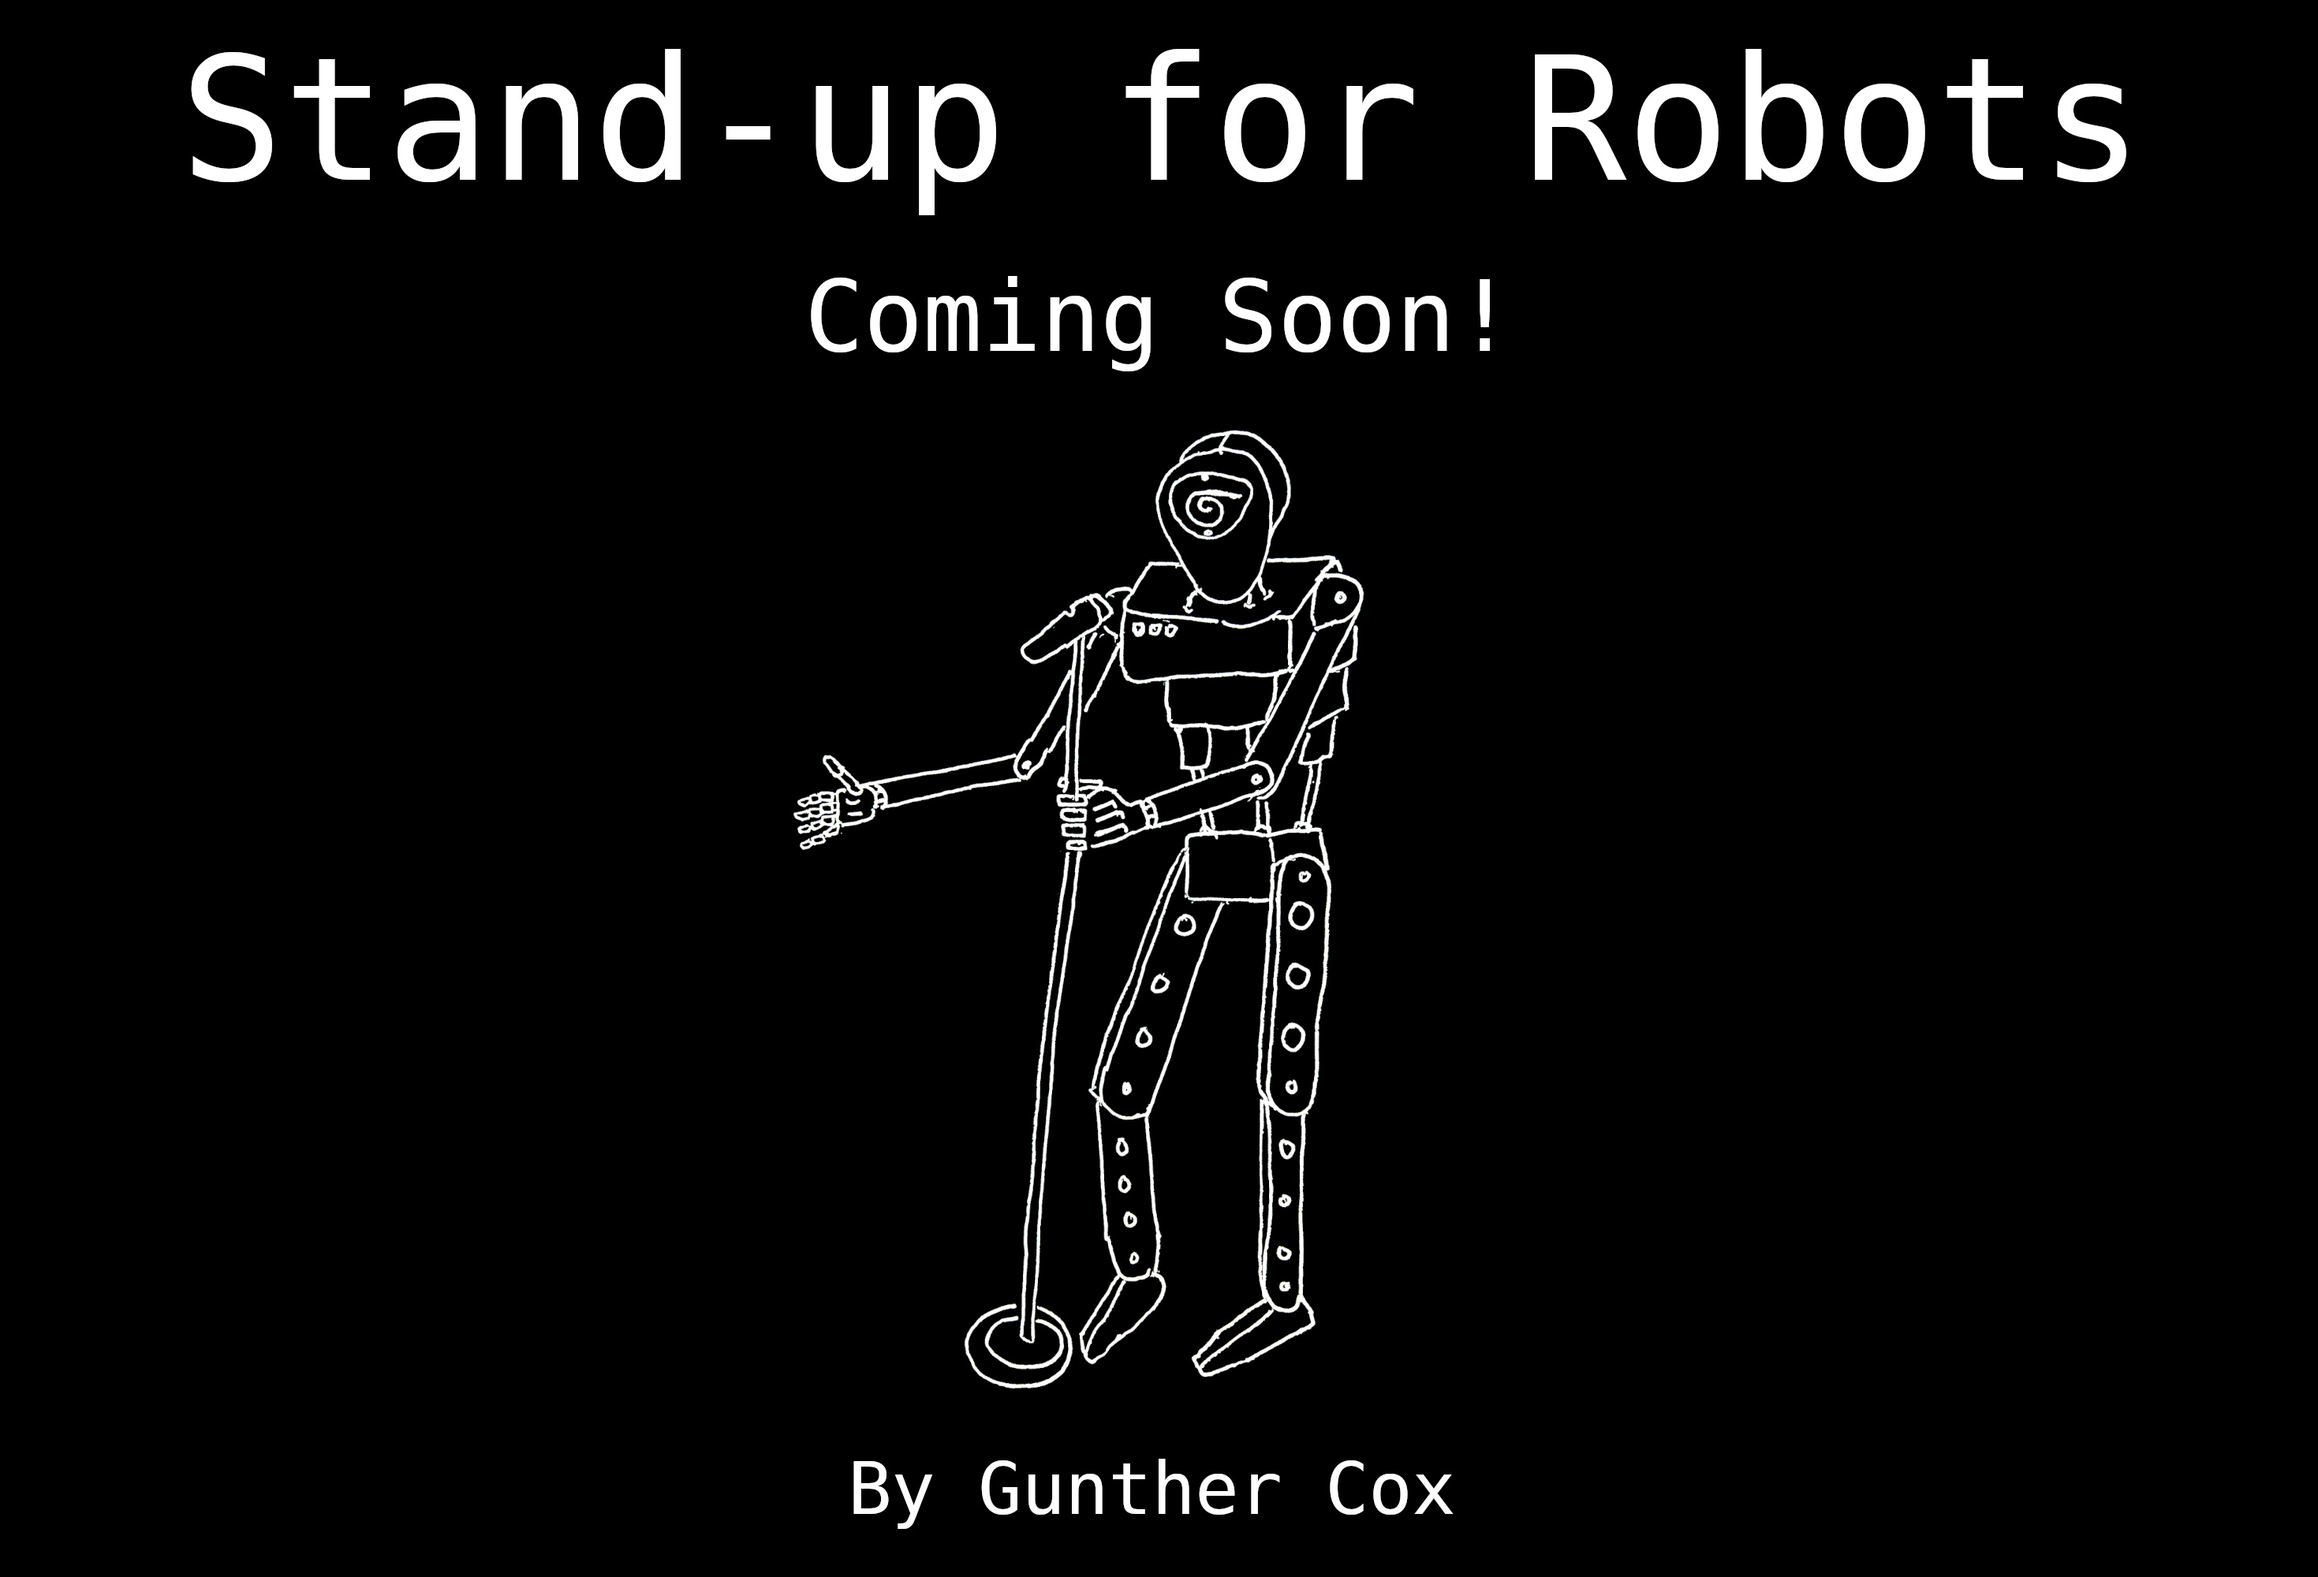
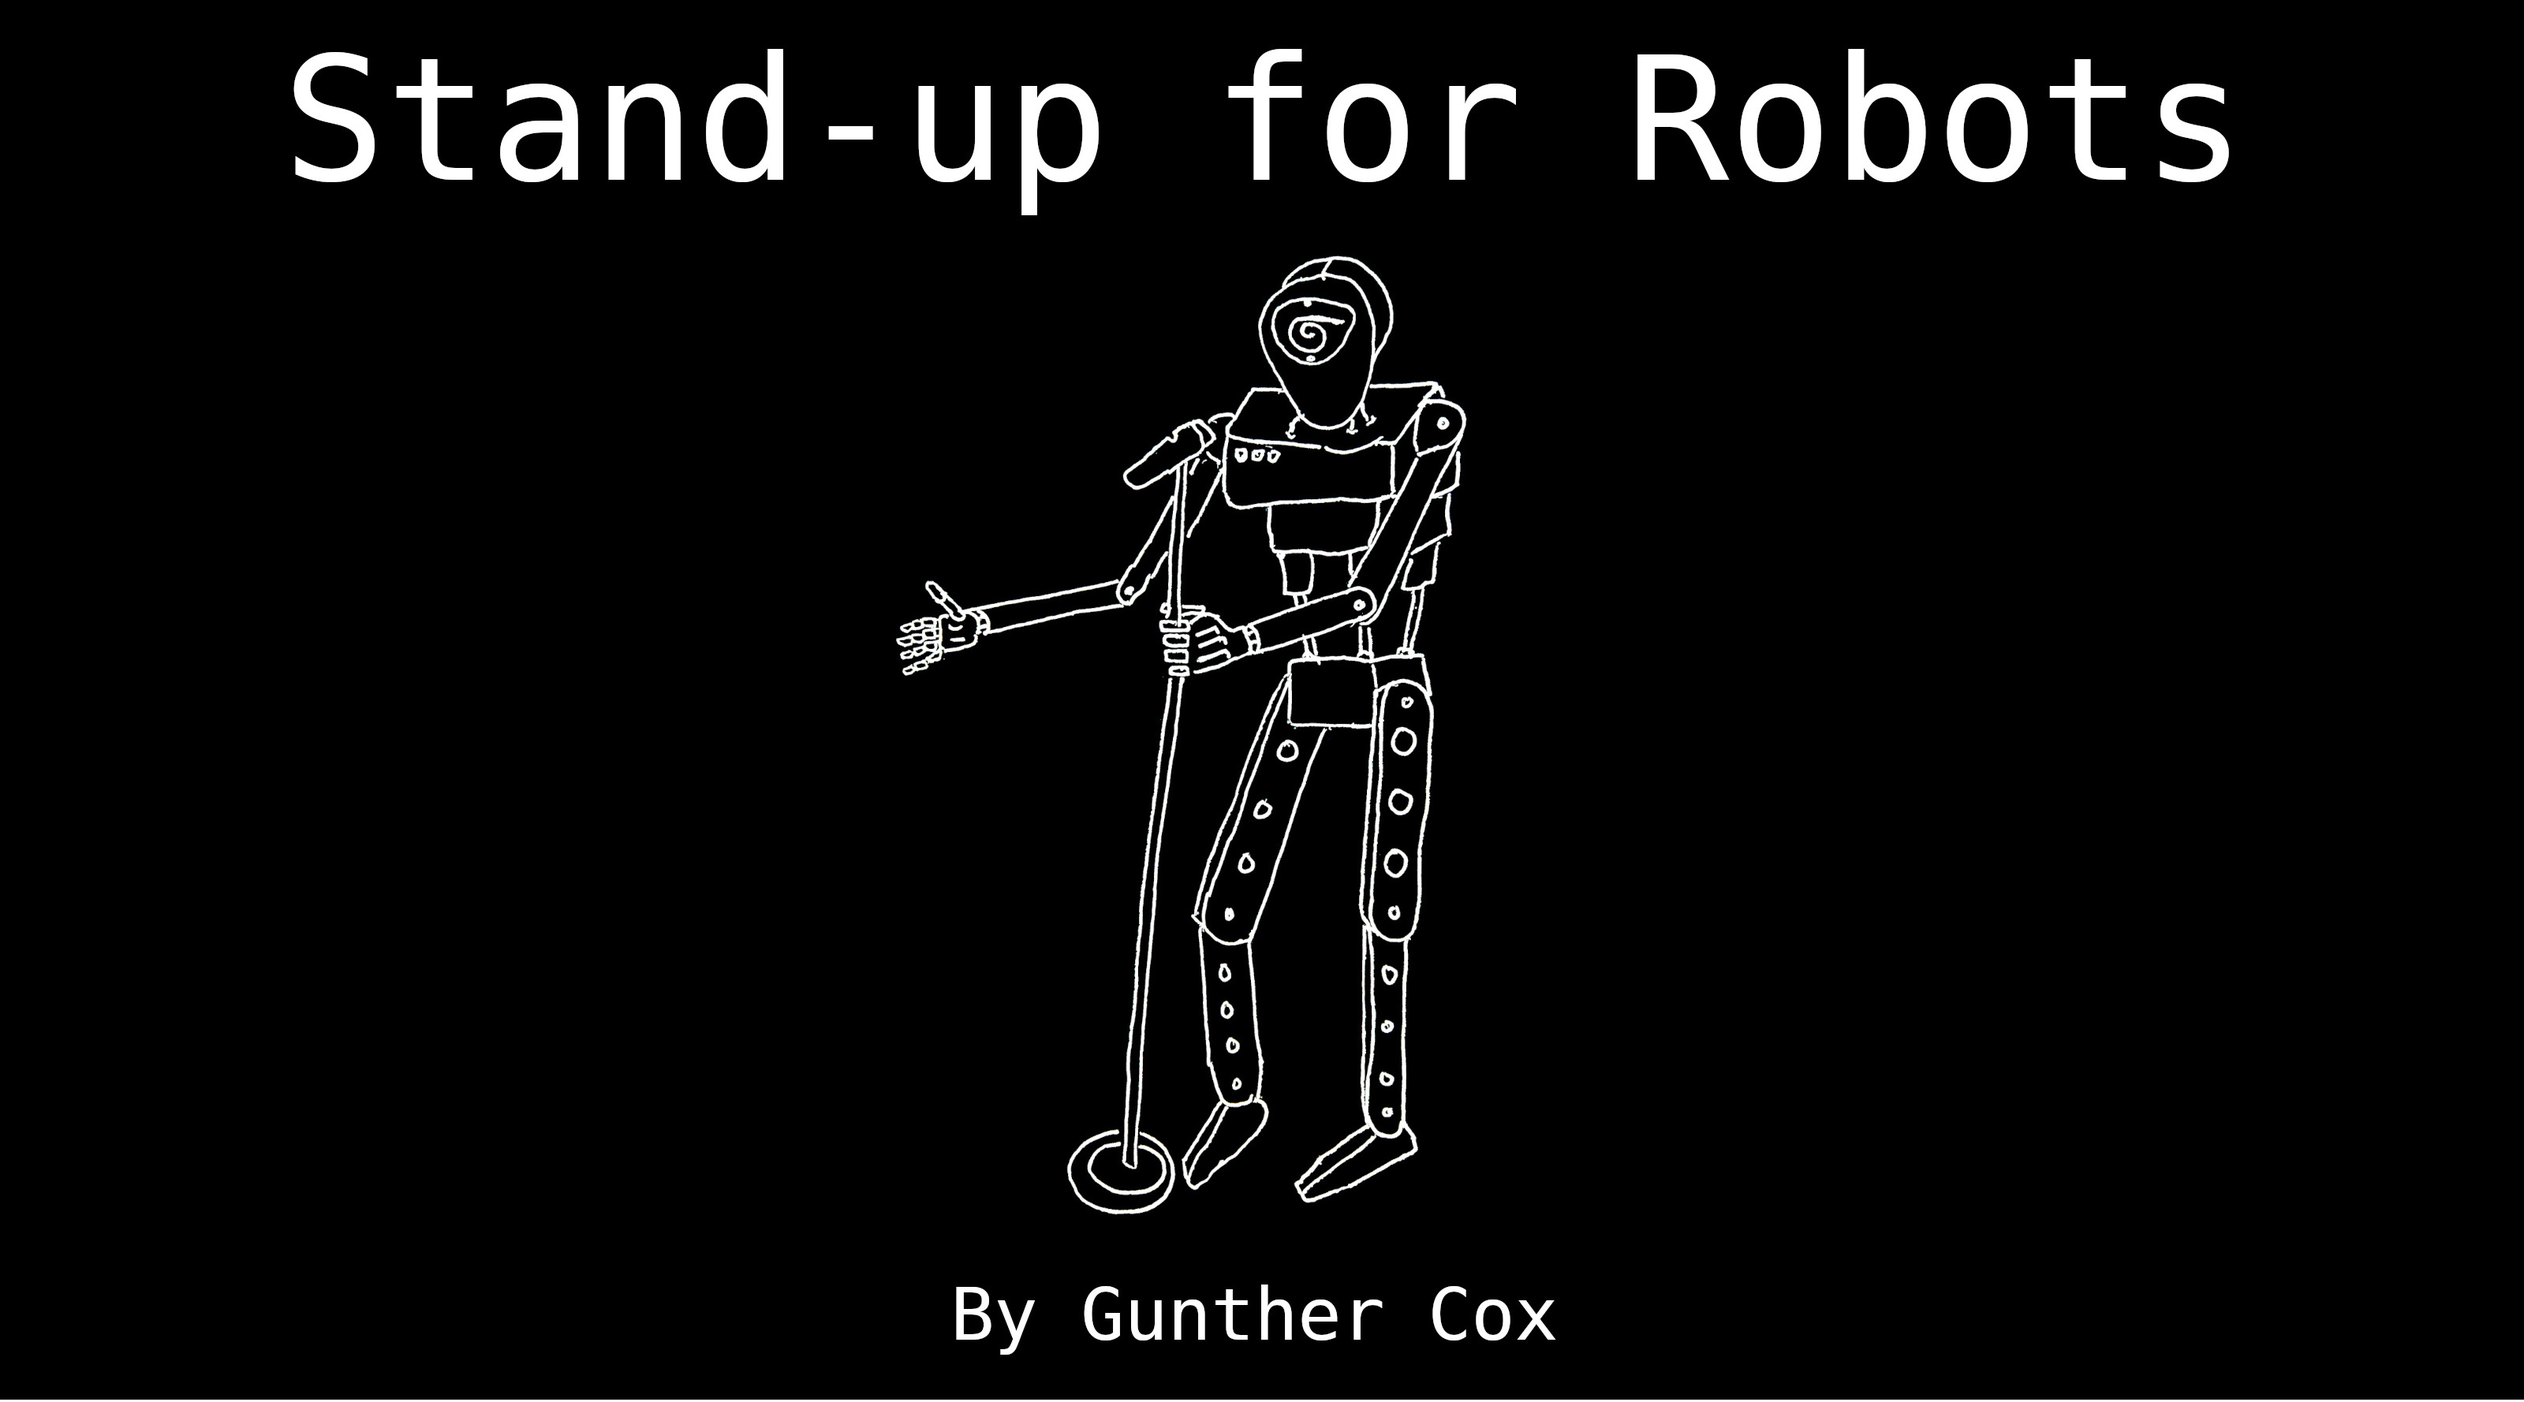
Update book info

diff --git a/store/stand-up-for-robots.html b/store/stand-up-for-robots.html
@@ -36,13 +36,6 @@ meta_tags:
             </b>
         </div>
         <br/>
-        <div class="alert alert-info text-center">
-            <strong><i class="fa-solid fa-clock"></i> Coming Soon</strong>
-            <p style="margin-top: 10px; margin-bottom: 0;">
-                This book is currently in development. Check back soon for release date and availability!
-            </p>
-        </div>
-        <br/>
         <p class="lead">
             In a world powered by algorithms and illuminated by LEDs, one robot stands before the microphone, searching not for power, but for laughter.
 
@@ -56,20 +49,10 @@ meta_tags:
             Between voltage and vulnerability, Salvius reveals something electric, the realization that laughter may be the most human signal of all.
         </p>
 
-        <h3>What to Expect</h3>
-        <ul>
-            <li>A robot's journey from circuits to comedy—Salvius takes the stage as a stand-up comedian</li>
-            <li>Philosophical musings on existence, thought, and consciousness through humor</li>
-            <li>Exploration of what makes us laugh and what makes us human</li>
-            <li>The intersection of artificial intelligence and the art of comedy</li>
-            <li>Stories of malfunctions, mishaps, and the pursuit of the perfect punchline</li>
-            <li>A unique blend of performance art, robotics, and social commentary</li>
-        </ul>
-
-        <div class="text-center" style="margin-top: 30px;">
-            <p class="text-muted">
-                <strong>Publication Status:</strong> In Development
-            </p>
+        <div class="text-center">
+            <a href="https://amzn.to/45ielzq" class="btn btn-default btn-lg white-outline color-darkorange">
+                <i class="fa-solid fa-shopping-cart"></i> Buy on Amazon
+            </a>
         </div>
 
     </div>

diff --git a/store/index.html b/store/index.html
@@ -50,7 +50,7 @@ title: The Bot Shop
         <div class="panel panel-success">
             <div class="panel-heading text-center">
                 <h3 class="panel-title">
-                    <i class="fa-solid fa-clock"></i> Coming Soon
+                    <i class="fa-solid fa-check-circle"></i> Out Now
                 </h3>
             </div>
             <div class="panel-body text-center">
@@ -61,16 +61,13 @@ title: The Bot Shop
                     searching not for power, but for laughter.
                 </p>
                 <p>
-                    Part performance, part comedic experiment, <em>Stand-up for Robots</em> captures the story of 
-                    Salvius learning to understand humanity through punchlines, pauses, and possibly a few malfunctions. 
-                    Between voltage and vulnerability, discover what happens when a machine explores the most human signal of all: laughter.
+                    Salvius, is trying his hand as a comedian and has been learning the oldest form of human code: humor.
+                    From stage lights to system logs, his routines explore what it means to think, to feel, and exist in this absurd modern world.
                 </p>
             </div>
             <div class="panel-footer text-center">
-                <span class="text-muted"><strong>Status:</strong> Currently in development</span>
-                <br/><br/>
                 <a href="/store/stand-up-for-robots/" class="btn btn-default">
-                    <i class="fa-solid fa-info-circle"></i> Learn More
+                    <i class="fa-solid fa-info-circle"></i> See Details
                 </a>
             </div>
         </div>
